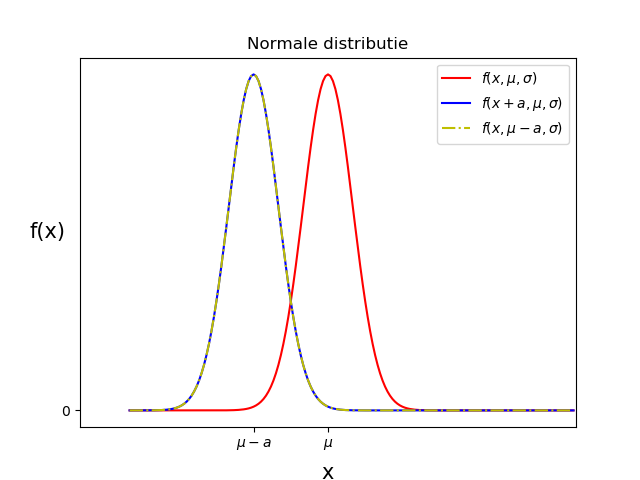
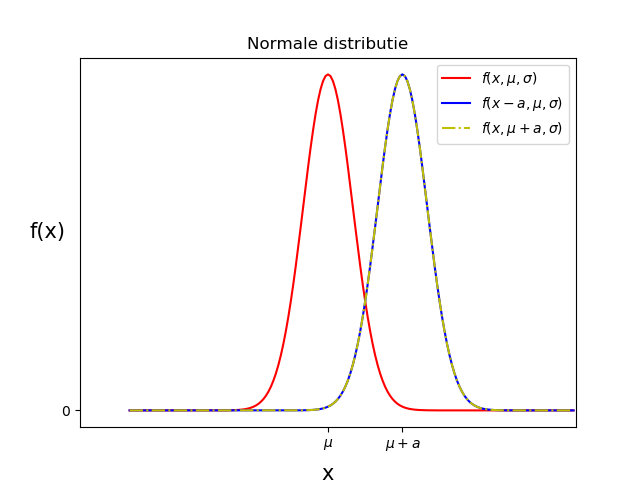
indeling HS

diff --git a/20 Blok 2/01 Transformaties/10 Transformaties.md b/20 Blok 2/01 Transformaties/10 Transformaties.md
@@ -10,17 +10,20 @@ In deze sectie bespreken we het effect van translatie (verschuiving), vermenigvu
 Als alle stochasten worden opgehoogd of verlaagd met een constante waarde $$a$$, dan verandert het gemiddelde met diezelfde waarde $$a$$. De variantie en de standaard deviatie blijven gelijk.
 
 
-> <span class="badge badge-warning">Een voorbeeld</span> We bekijken wat er gebeurd de Normaal verdeling onder een translatie. De originele kansdichtheid functie $$f(x)$$ is na translatie $$x \mapsto x + a$$ beschreven door een nieuwe functie $$g(x)$$. :<br>
-> 
-> $$ g(x) = f(x + a;\mu) = \frac{1}{\sigma \sqrt{2 \pi}} e^{\frac{-1}{2}\frac{(x+a)-\mu}{\sigma}}^2} = f(x;\mu+a$$.
->
-> We zien dat de $$g(x)$$ gelijk is aan een Normaal verdeling rond $$\mu+a$$. Let wel op, dit geldt voor de Normaal verdeling, en niet zomaar voor alle functies. <br>
-> We zien hieronder de originele Normaal verdeling en de transleerde verdeling grafisch verbeeld. 
-> 
-> ![](NormaleDistributieTranslatie.png){:width=
+We bekijken wat er gebeurd de Normaal verdeling onder een translatie. De originele kansdichtheid functie $$f(x)$$ is na translatie $$x \mapsto x - a$$ beschreven door een nieuwe functie $$g(x)$$. :<br>
+ 
+$$ g(x) = f(x + a;\mu) = \frac{1}{\sigma \sqrt{2 \pi}} e^{\frac{-1}{2}\frac{(x-a)-\mu}{\sigma}}^2} = f(x;\mu+a$$.
 
+We zien dat de $$g(x)$$ gelijk is aan een Normaal verdeling rond $$\mu+a$$. Let wel op, dit geldt voor de Normaal verdeling, en niet zomaar voor alle functies. <br>
+We zien hieronder de originele Normaal verdeling en de getransleerde verdeling grafisch verbeeld. 
 
-NB voor de poisson gaat dit niet op. 
+![](NormaleDistributieTranslatie.png){:width=80}
+
+Dat dit niet voor alle functies opgaat illustreren we met de Poisson distributie. We zien dat de translatie van de Poisson de functie zodanig verandert dat we het niet kunnen beschrijven met een Poisson vergelijking.
+Wel zien we dat de translatie van $$a$$ de verwachtingswaarde verandert met precies $$a$$ en dat de standaard deviatie niet veranderd is onder de translatie.
+
+![](PoissonDistributieTranslatie.png){:width=80}
+
 
 
 Dit bekijken we eens aan de hand van een voorbeeld. Als dataset nemen we de waarden:

diff --git a/10 Blok 1/04 Kanstheorie/Kanstheorie.md b/10 Blok 1/04 Kanstheorie/Kanstheorie.md
@@ -188,7 +188,7 @@ Dat is ook geen toeval, de Poisson vergelijking is een speciale vorm van de Bino
 <a name="Normaal"></a>
 Stochastische variabelen zijn normaal verdeeld (ook wel Gaussisch) als ze door de volgende functie worden beschreven:
 
-$$ f(x) = \frac{1}{\sigma \sqrt{2 \pi}} e^{\frac{-1}{2}\frac{x-\mu}{\sigma}^2} $$.
+$$ f(x) = \frac{1}{\sigma \sqrt{2 \pi}} e^{-\frac{1}{2}\frac{x-\mu}{\sigma}^2} $$.
 
 De functie heeft twee parameters, $$\mu$$ en $$\sigma$$, de notering is niet toevallig. De verwachtingswaarde van de normaal verdeling is precies $$\mu$$ en de standaard deviatie is precies $$\sigma$$. Dat is zeker geen toevalligheid. 
 
